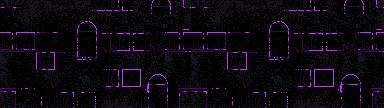
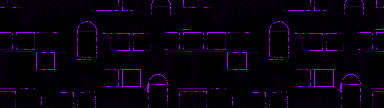
Add sprite

diff --git a/index.html b/index.html
@@ -9,7 +9,7 @@
 </head>
 <body>
   <header class="site-header">
-    <div class="game-logo">Endless Run</div>
+    <div class="game-logo">Ghost Run</div>
   </header>
 
   <main class="wrap" id="app">
@@ -23,19 +23,18 @@
           role="img"
         ></canvas>
       </div>
-        <div class="hud" aria-label="Game controls">
-          <p class="help" id="help-text">
-            Flip: <kbd>Space</kbd> or <kbd>Click</kbd> · Pause: <kbd>P</kbd> · Restart: <kbd>R</kbd> ·
-            <strong>Space also restarts on crash</strong>
-          </p>
-          <p class="sr-status" id="status" role="status" aria-live="polite"></p>
+      <div class="hud" aria-label="Game controls">
+        <p class="help" id="help-text">
+          Flip: <kbd>Space</kbd> or <kbd>Click</kbd> · Pause: <kbd>P</kbd> · Restart: <kbd>R</kbd> ·
+          <strong>Space also restarts on crash</strong>
+        </p>
+        <p class="sr-status" id="status" role="status" aria-live="polite"></p>
       </div>
     </section>
   </main>
   <footer class="site-footer" aria-label="Credits">
-   <p>
-      Code by <strong>Percy</strong> · Art &amp; Design by <strong>Tai</strong> ·
-      Gameplay inspired by <strong>Flappy Bird</strong>, <strong>Dinosaur game</strong> and others
+    <p>
+      Code by <strong>Percy</strong> · Art &amp; Design by <strong>Tai</strong>
     </p>
   </footer>
 

diff --git a/src/game.js b/src/game.js
@@ -43,10 +43,10 @@
     let score = 0;
     let high = Number(localStorage.getItem("flip_high") || "0");
     let crashCooldown = 0;
-    let nextScoreThreshold = 100;
+    let nextScoreThreshold = 50;
 
     // Sound
-    const passSound = new Audio("assets/Sounds/100.wav");
+    const passSound = new Audio("assets/Sounds/50.wav");
     passSound.volume = 0.5;
 
     const flipSound = new Audio("assets/Sounds/flip.wav");
@@ -90,7 +90,7 @@
         paused = false;
         over = false;
         score = 0;
-        nextScoreThreshold = 100;
+        nextScoreThreshold = 50;
         state.speed = SPEED_START;
         state.elapsed = 0;
         state.spawnIn = Utils.rand(SPAWN_MIN, SPAWN_MAX);
@@ -128,11 +128,10 @@
         state.speed = SPEED_START + SPEED_RAMP * Math.sqrt(state.elapsed);
 
         score += SCORE_SPEED * dt;
-        // Play sound every time score passes a multiple of 100
-        while (score >= nextScoreThreshold) {
+        if (score >= nextScoreThreshold) {
             passSound.currentTime = 0;
             passSound.play();
-            nextScoreThreshold += 100;
+            nextScoreThreshold += 50;
         }
 
         state.player.vy += GRAVITY * state.gravitySign * dt;
@@ -187,7 +186,6 @@
 
     // Background scroll state
     let bgScrollX = 0;
-
 
     // Draw
     function draw() {

diff --git a/src/pillars.js b/src/pillars.js
@@ -15,11 +15,16 @@ const Pillars = {
         this.pillarsReady = false;
 
         const botImageFiles = [
-            "assets/Pillars/Bot/Bot_01.png",
-            "assets/Pillars/Bot/Bot_02.png"
+            "assets/Pillars/Bot/Bot_1.png",
+            "assets/Pillars/Bot/Bot_2.png",
+            "assets/Pillars/Bot/Bot_3.png",
+            "assets/Pillars/Bot/Bot_4.png",
+            "assets/Pillars/Bot/Bot_5.png"
         ];
         const topImageFiles = [
-            "assets/Pillars/Top/Top.png"
+            "assets/Pillars/Top/Top_1.png",
+            "assets/Pillars/Top/Top_2.png",
+            "assets/Pillars/Top/Top_3.png"
         ];
 
         let count = 0;

diff --git a/README.md b/README.md
@@ -1,28 +1,20 @@
-# Endless Runner
+ # GhostRun
 
-🎮 **Play the game here → [Endless Runner on GitHub Pages](https://prcpham-dev.github.io/Endless-Runner/)**
+🎮 **Play the game here → [GhostRun on GitHub Pages](https://prcpham-dev.github.io/GhostRun/)**
 
 A simple endless runner game built with **HTML5 Canvas** and vanilla **JavaScript**, where the player flips gravity to dodge pillars. Inspired by "Flappy Bird".
 
-![screenshot](assets/hud.png)
+![screenshot](assets/sample.png)
 
-## 👻 Gameplay
+# 👻 Gameplay
 
-<div style="display: flex; align-items: center; gap: 20px;">
-  <div>
-    <img src="assets/LittleGhost.gif" alt="LittleGhost character" width="120">
-  </div>
+![LittleGhost character](assets/LittleGhost.gif)
 
-  <div>
-
-  - The player is a small ghost character that can flip between the floor and ceiling.  
-  - Avoid crashing into the **pillars** that spawn with random gaps.  
-  - The game gets faster the longer you survive.  
-  - Your **score** increases with time and obstacles cleared.  
-  - Your **high score** is saved locally (via `localStorage`).  
-
-  </div>
-</div>
+- Control a **little ghost** that can flip between the floor and the ceiling.  
+- **Avoid the pillars** that spawn with random gaps.  
+- The game speed **increases the longer you survive**.  
+- Your **score** increases with time and obstacles cleared.  
+- Your **high score** is saved locally in your browser using `localStorage`.  
 
 ## 🕹 Controls
 
@@ -51,4 +43,5 @@ A simple endless runner game built with **HTML5 Canvas** and vanilla **JavaScrip
 
 ## Credits
 - Art & Design: A huge thanks to **Tai** for creating the **LittleGhost character** and all of the **art assets** (HUD, sprites, and visuals) used in this game.  
+- Sounds: Generated with [sfxr](https://sfxr.me/).
 - Inspiration: Gameplay inspired by *Flappy Bird*, *Dinosaur game* maybe other games.
